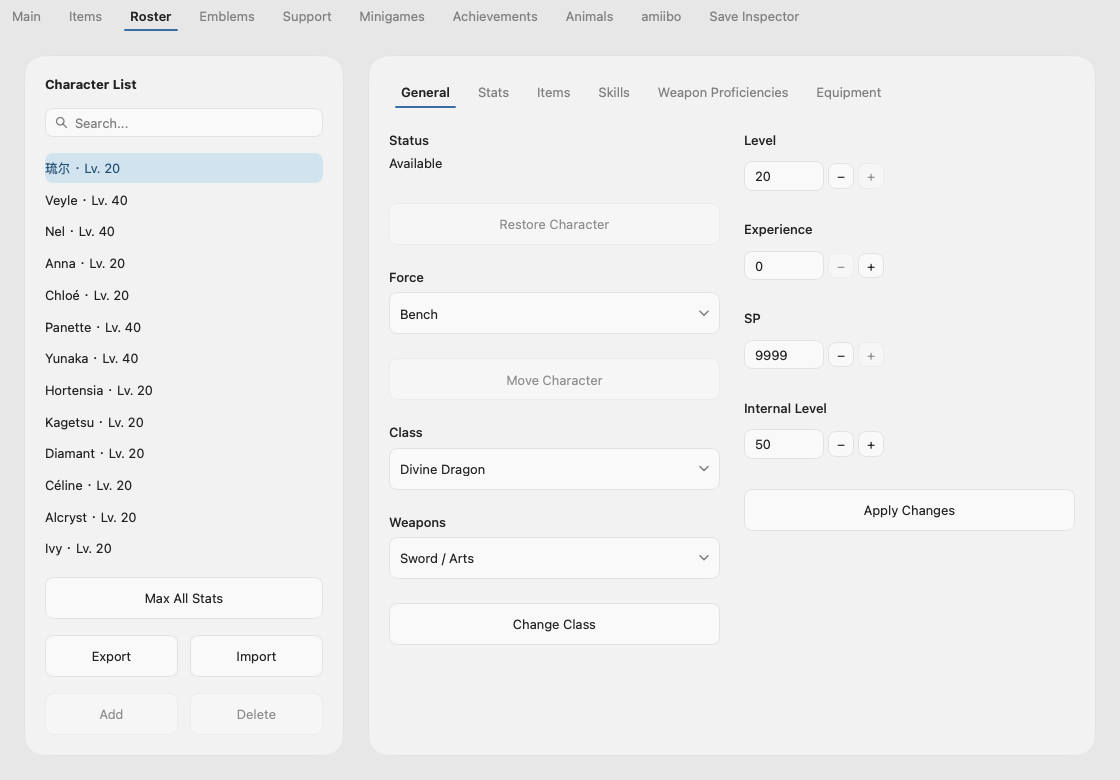
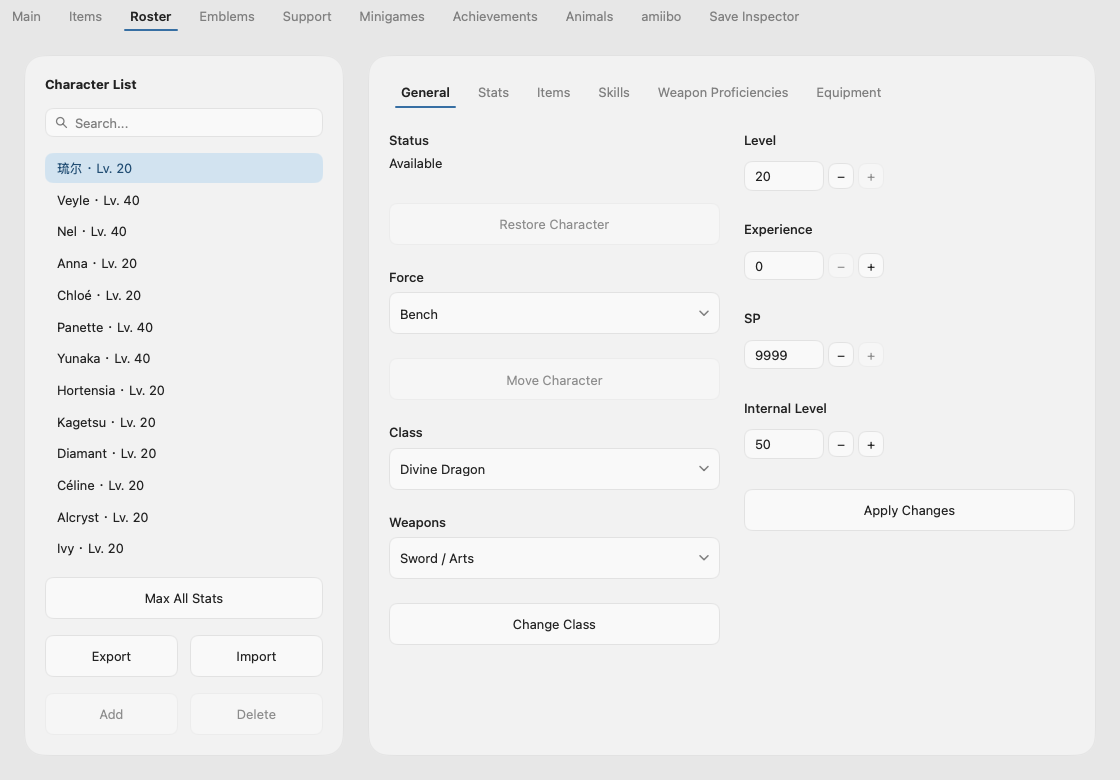
fix(gui): inset list row text from selection edges

diff --git a/internal/app/controls.go b/internal/app/controls.go
@@ -163,7 +163,7 @@ func (a *App) list(c *ui.Context, key, title string, rows []row, header, footer 
 			if r.Value != "" {
 				text += " · " + r.Value
 			}
-			ui.Text(c, text).Padding(7, 0).SingleLine()
+			ui.Text(c, text).Padding(7, 12).SingleLine()
 		}).Changed() {
 			if e := a.ApplyPending(strings.Split(key, "/")[0]); e != nil {
 				s.Selected = old
